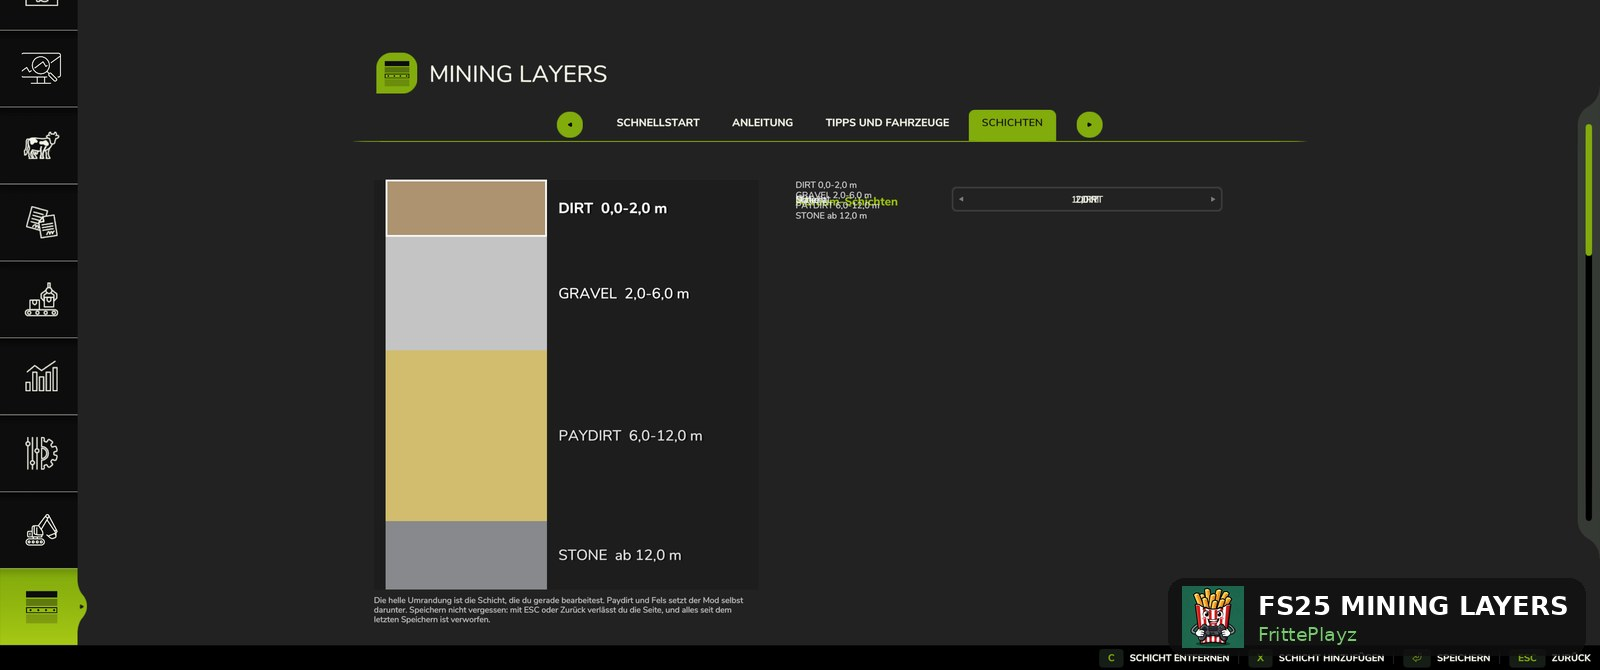
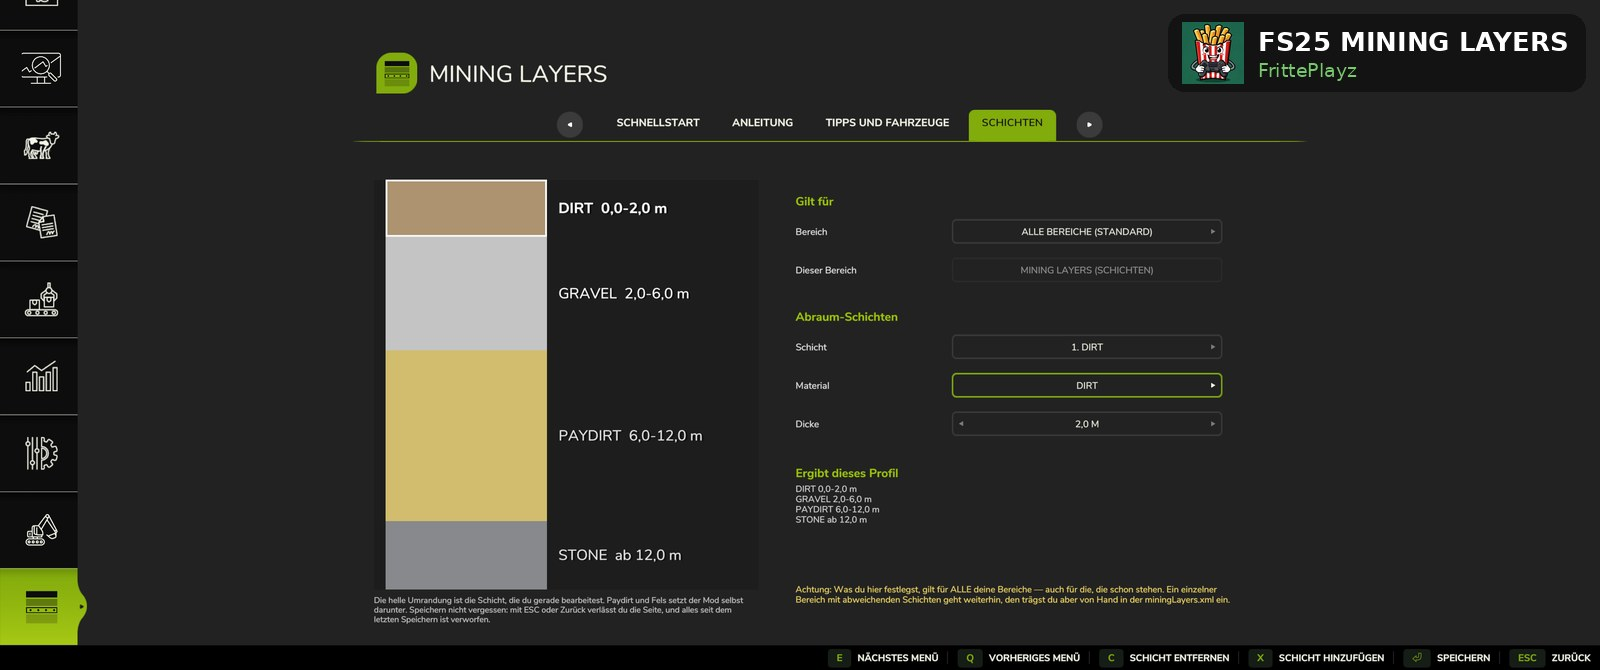
README: new editor screenshot (1.3.1.0) + describe 'Applies to' target selection

diff --git a/README.de.md b/README.de.md
@@ -46,7 +46,7 @@ Nach dem Start findest du eine neue Seite **Mining Layers** im ESC-Menü — mit
 
 ![Tiefer — Kies, gleich Paydirt](docs/images/05_display_paydirt.jpg)
 
-**4. Eigene Schichten festlegen — pro Grube.** ESC-Menü → Mining Layers → Reiter Schichten: Material und Tiefe je Bereich einzeln wählen (oder für alle gemeinsam):
+**4. Eigene Schichten festlegen — pro Grube.** ESC-Menü → Mining Layers → Reiter Schichten. Unter *Gilt für* wählst du das Ziel: alle Bereiche oder eine bestimmte Grube — und ob diese Grube überhaupt mit Schichten arbeitet. Darunter stellst du Material und Dicke je Schicht ein, links siehst du das entstehende Profil sofort:
 
 ![Schichten-Editor](docs/images/02_layer_editor.jpg)
 

diff --git a/README.md b/README.md
@@ -46,7 +46,7 @@ After starting, you'll find a new **Mining Layers** page in the ESC menu — wit
 
 ![Deeper — gravel, paydirt next](docs/images/05_display_paydirt.jpg)
 
-**4. Set your own layers — per pit.** ESC menu → Mining Layers → Layers tab: pick materials and depths for each area separately (or for all at once):
+**4. Set your own layers — per pit.** ESC menu → Mining Layers → Layers tab. Under *Applies to* you pick the target: all areas or one specific pit — and whether that pit uses layers at all. Below that you set material and thickness per layer, and the preview shows the resulting profile live:
 
 ![Layer editor](docs/images/02_layer_editor.jpg)
 
